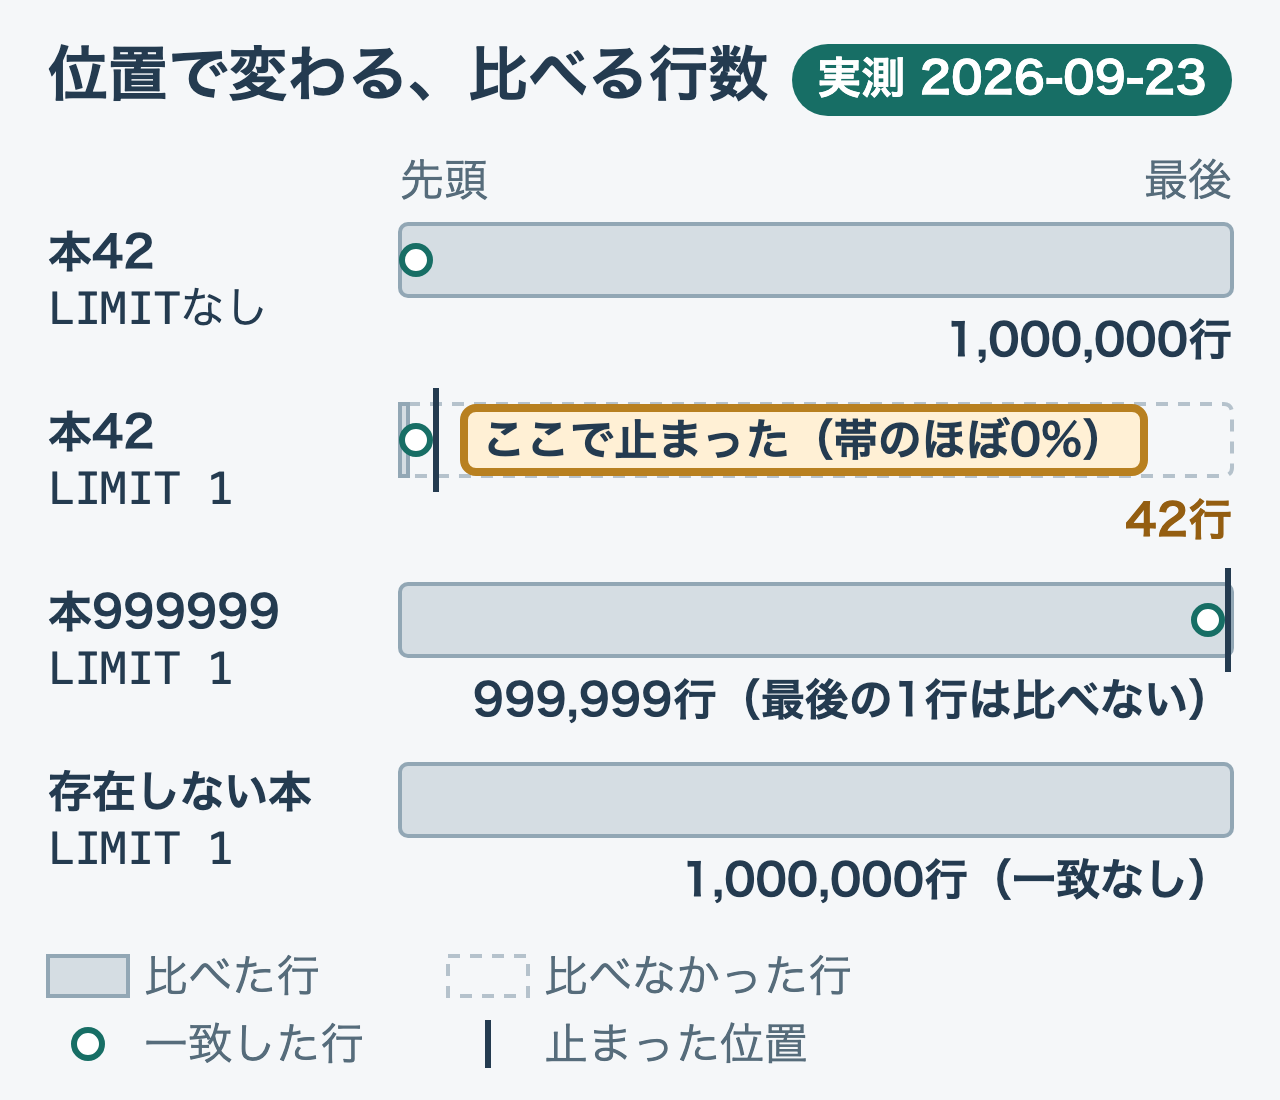
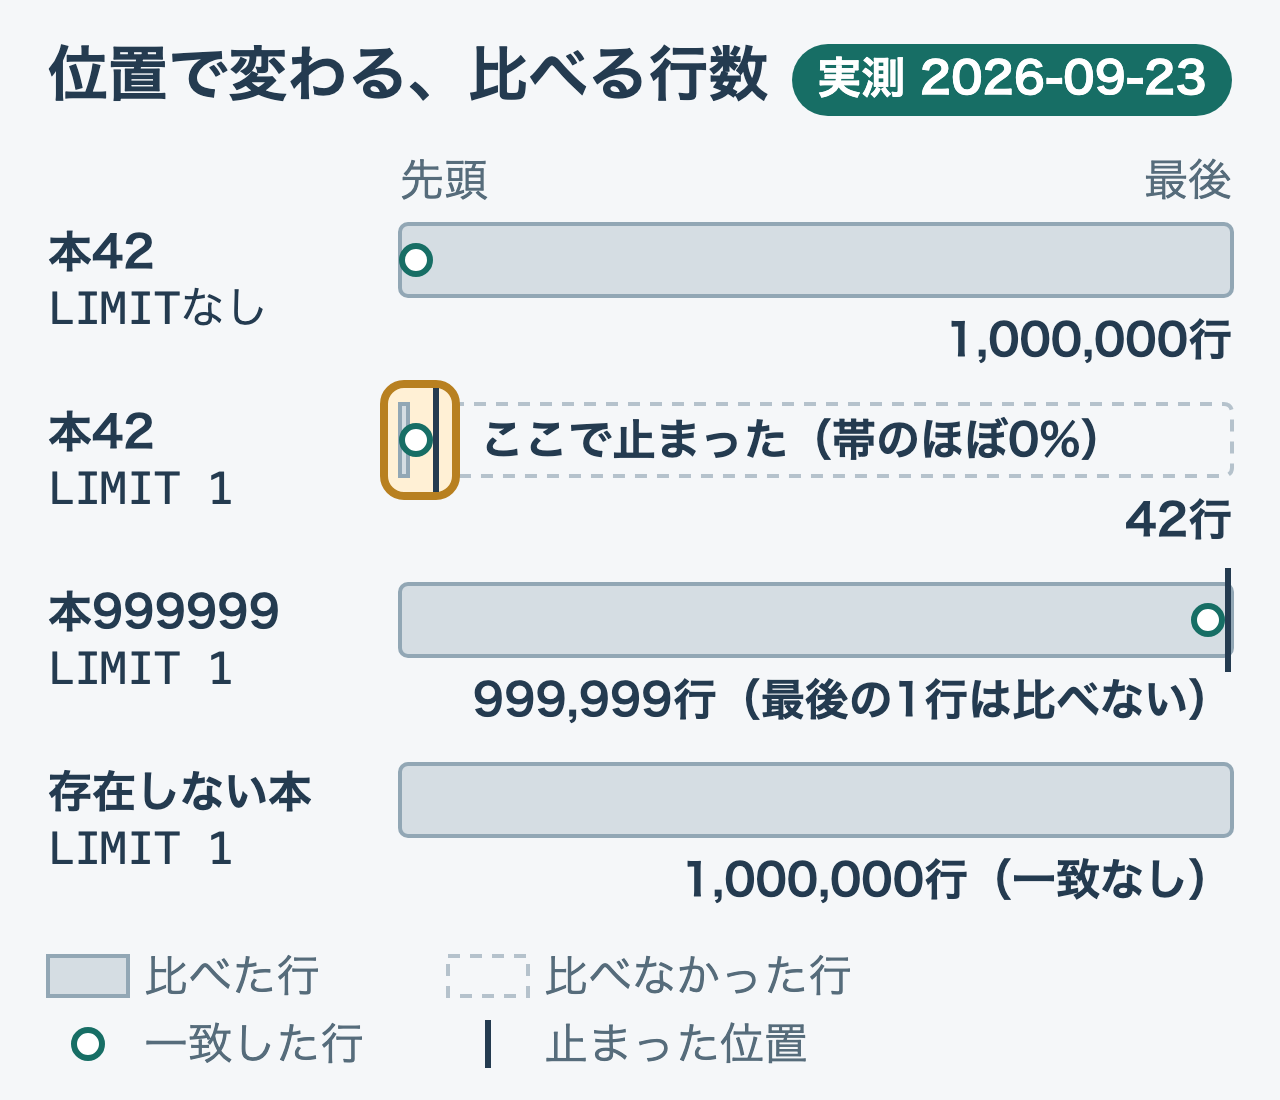
docs(query-journey): 第2章の帯の図で、止まった位置だけを強調する
2本目の橙の枠が「比べなかった」区間の大半を覆い、スマホ幅では橙で埋まった帯に見えた。橙は帯の先頭（止まった位置）の小さな枠だけにし、ラベルは枠なしで帯の中に置いて、ほとんど比べずに止まったことが帯の空き具合で分かるようにした。「42行」の茶色（要求の色）もやめた。キャプションの数の書き方を「四つ」にそろえた。

Changed region(s): [[0.2812, 0.34, 0.9062, 0.4636], [0.875, 0.4327, 0.9688, 0.4945]]

diff --git a/books/postgresql-query-journey/02-linear-search.md b/books/postgresql-query-journey/02-linear-search.md
@@ -202,7 +202,7 @@ Execution Time: 35.368 ms
 4本の帯で、灰色の長さ（比べた行数）を比べてください。
 
 ![同じ長さの帯が4本。本42のLIMITなしと存在しない本は100万行すべて、本999999は999,999行を比べ、本42のLIMIT 1だけが42行で止まる](/images/postgresql-query-journey/05-limit-bands.png)
-*表の4つの実測を帯にしたもの。この章の設定で、毎回表の先頭から読んでいます。*
+*表の四つの実測を帯にしたもの。この章の設定で、毎回表の先頭から読んでいます。*
 
 目的の行が後ろにあれば、そこまで調べます。存在しなければ、最後まで調べて初めて「ない」と分かります。
 
